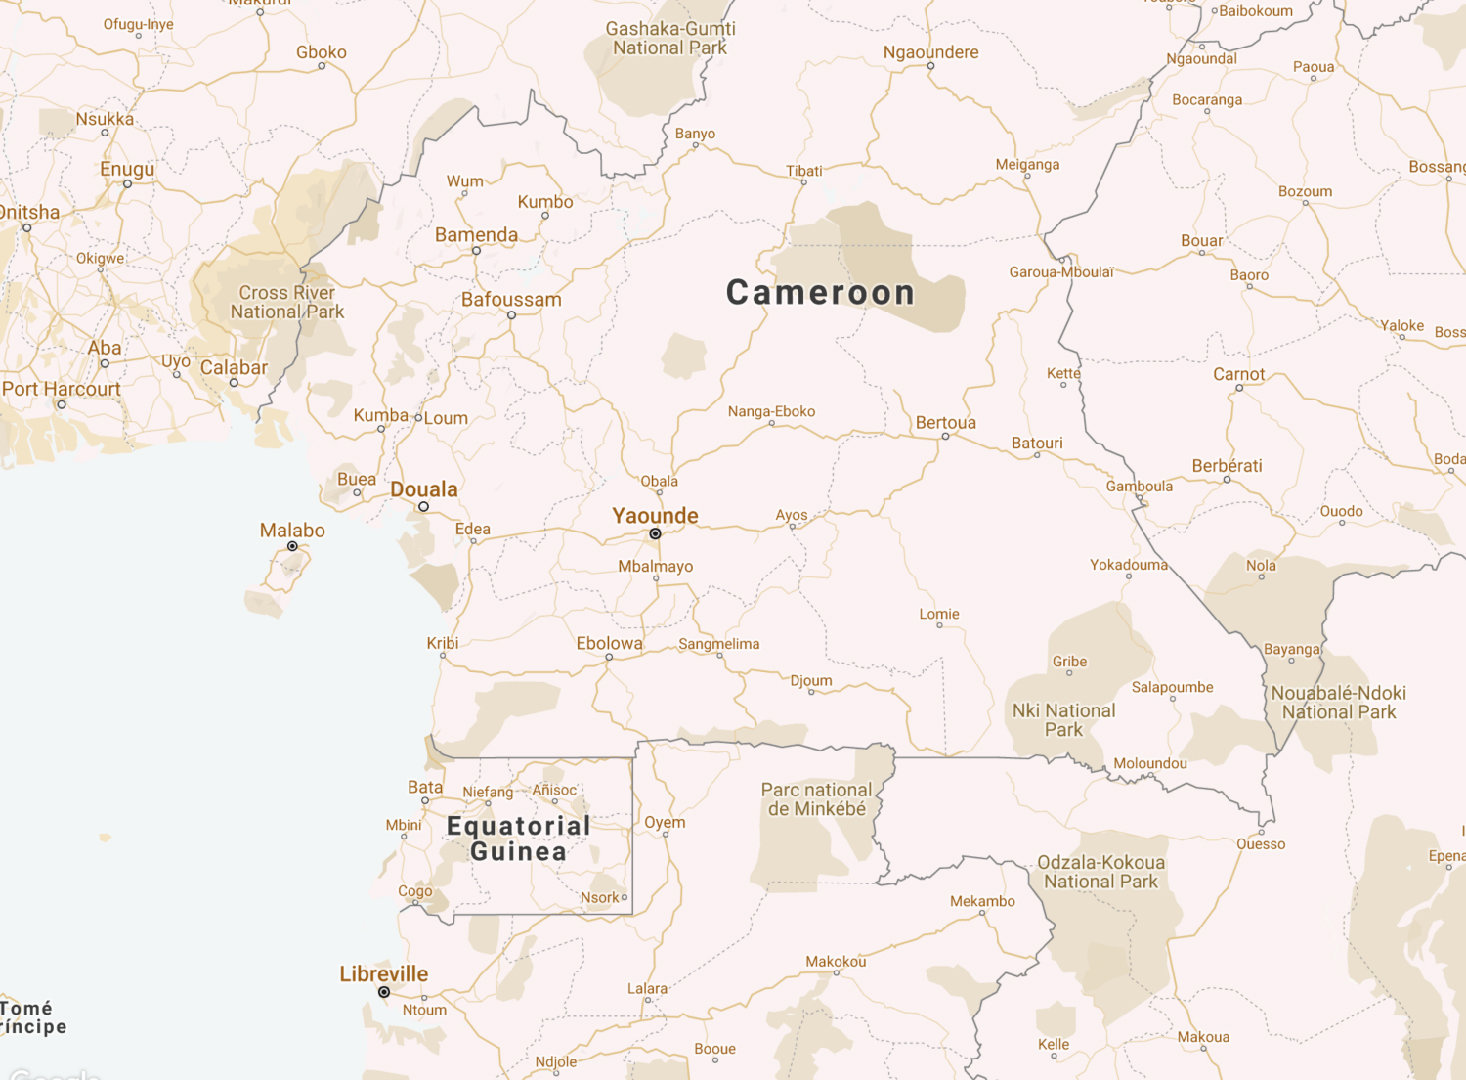
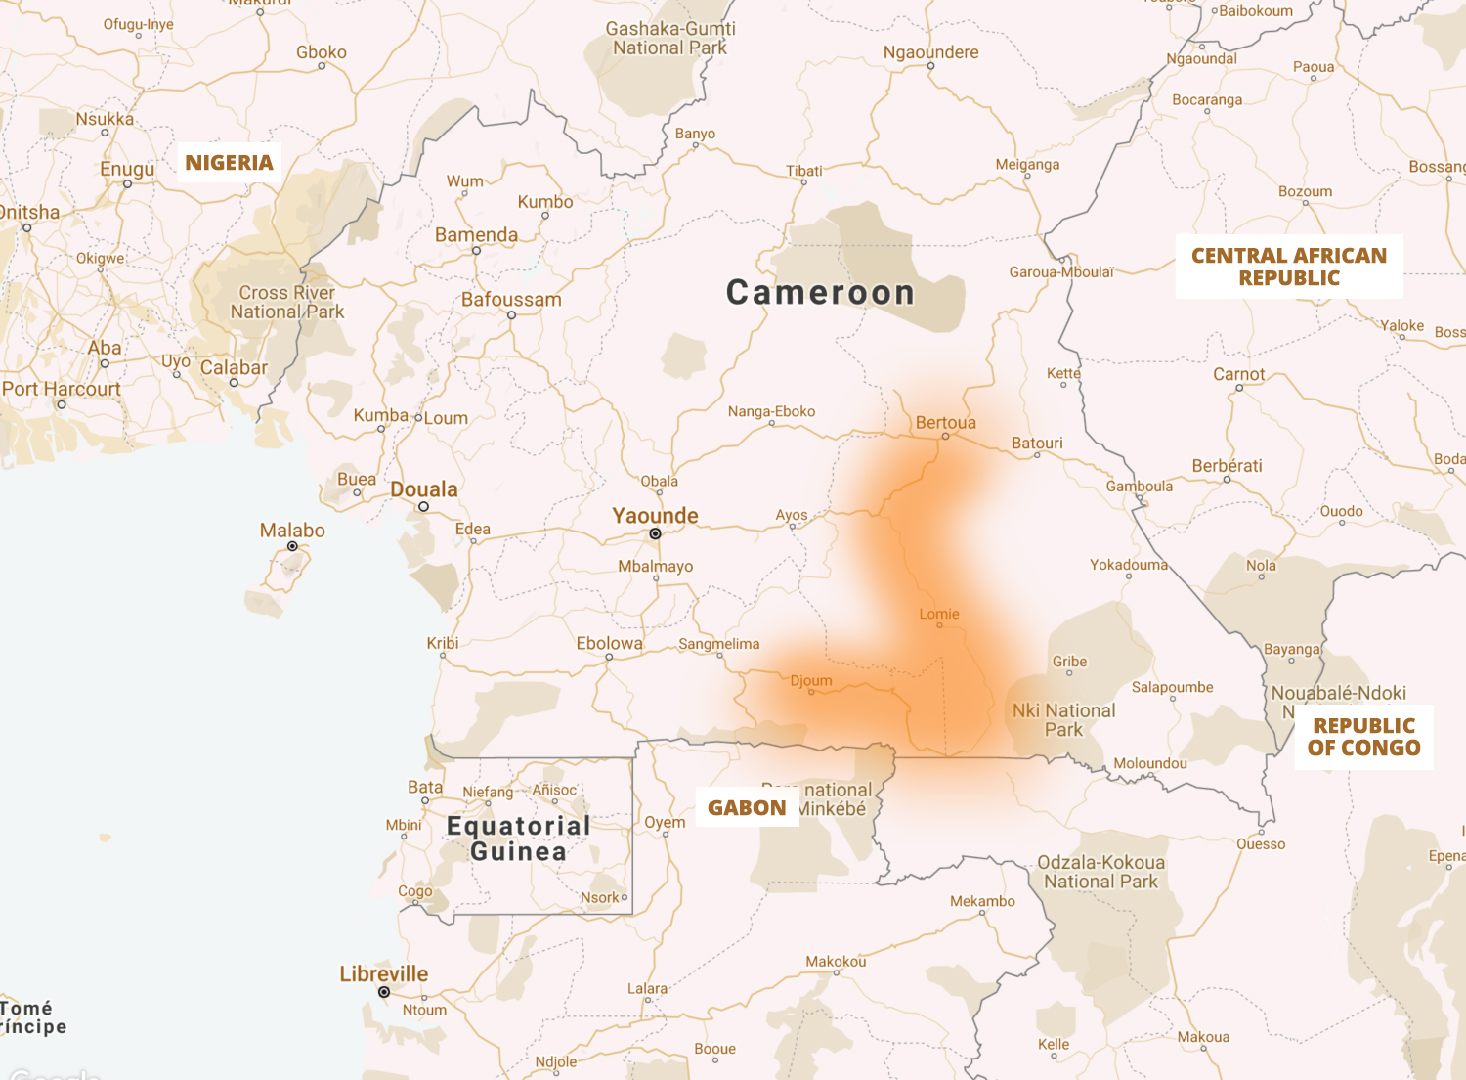
add open sans font (open sans bold) update cameroon map

diff --git a/src/public/index.html b/src/public/index.html
@@ -214,7 +214,6 @@
       <img class="routes-map-bg" src="assets/maps/Cameroon/desktop/map-01.jpg">
 
       <svg class="routes-map-svg" viewbox="0 0 1466 1080">
-        <use xlink:href="#outskirts-area" />
         <use xlink:href="#bertoua-text" />
         <use xlink:href="#abong-text" />
         <use xlink:href="#mindourou-text" />
@@ -1252,10 +1251,10 @@
     .st0{opacity:0.46;}
     .st1{opacity:0.2;}
     .st2{fill:#a36a2a;}
-    .st10{isolation:isolate;font-size:25.56px;fill:#fff;font-family:OpenSans-ExtraBold, Open Sans;font-weight:800;}
+    .st10{isolation:isolate;font-size:22px;fill:#fff;font-family:open sans bold;font-weight:900;}
 	  .st3{fill:#FFFFFF;}
-	  .st4{font-family:OpenSans-ExtraBold, Open Sans;font-weight:800;}
-	  .st5{font-size:25.56px;}
+	  .st4{font-family:open sans bold;font-weight:900;}
+	  .st5{font-size:22px;}
 	  .st6{fill:none;stroke:#FC7A00;stroke-width:6;stroke-linejoin:round;stroke-dasharray:8,6;}
 	  .st7{fill:#FC7A00;}
 	  .st8{opacity:0.2;fill:#FC7A00;}
@@ -1265,7 +1264,7 @@
     }
     </style>
     <g id="bertoua-text">
-      <rect class="st2" x="860" y="415.55" width="155" height="43.88"/>
+      <rect class="st2" x="860" y="415.55" width="140" height="43.88"/>
       <text class="st10" transform="translate(876.55 446.67)">BERTOUA</text>
     </g>
     <g id="abong-text">
@@ -1285,15 +1284,6 @@
       <text class="st10" transform="translate(760.42 692.67)">DJOUM</text>
     </g>
 
-    <g id="outskirts-area">
-	  <g>
-			<image width="336" height="393" xlink:href="assets/maps/Cameroon/desktop/F2045DA9A4388517.png"  transform="matrix(1 0 0 1 722 402)"></image>
-	   </g>
-	    <g>
-			<image width="420" height="497" xlink:href="assets/maps/Cameroon/desktop/F2045DA9A4388517.png"  transform="matrix(1 0 0 1 680 346)">
-		  </image>
-	   </g>
-   </g>
    <g id="douala-text">
 	    <rect x="354" y="534.5" class="st2" width="139" height="43.9"/>
 	     <text transform="matrix(1 0 0 1 368.28 565.67)" class="st3 st4 st5">DOUALA</text>

diff --git a/src/style/main.css b/src/style/main.css
@@ -1,3 +1,8 @@
+@font-face {
+  font-family: 'open sans bold';
+  src: url('assets/open-sans-800.woff') format('woff');
+}
+
 body {
 	margin: 0px;
 	width: 100vw;
